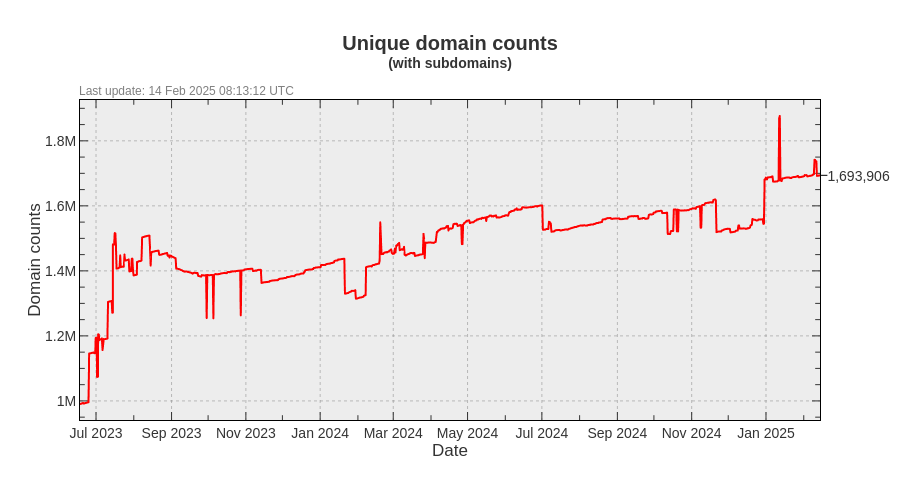
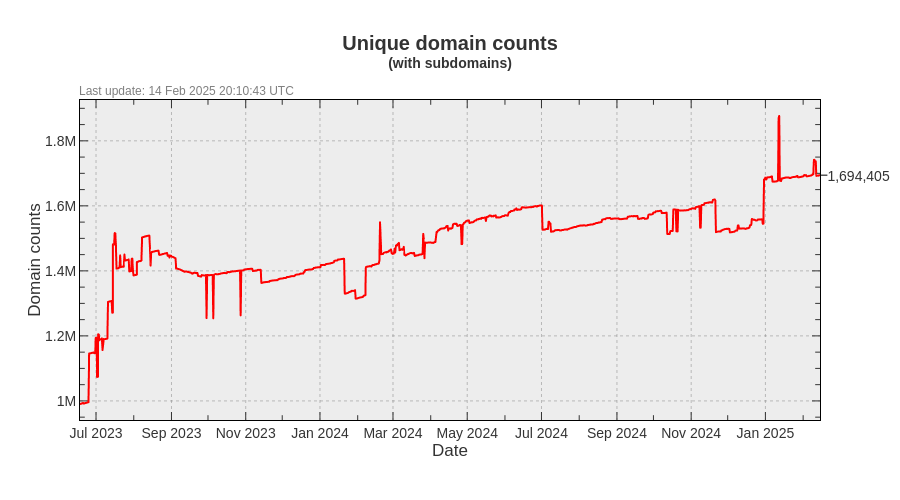
Update pages

diff --git a/README.md b/README.md
@@ -3,22 +3,22 @@ A blacklist file for blocking ads, trackers and malware domains.
 
[1 lines of base64/hex data omitted]
 
-- Unique domains: 1,693,906
-- Without subdomains: 1,047,678
-- Last update: 14 Feb 2025 08:13:12 UTC
-- Version: 2025.02.14.01
+- Unique domains: 1,694,405
+- Without subdomains: 1,048,231
+- Last update: 14 Feb 2025 20:10:43 UTC
+- Version: 2025.02.14.02
 
 
 ### Downloads:
 
 | Format             | Domain count      | Download Link |
 |:------------------ | -----------------:|:-------------:|
-| *Adblock Plus*     | 1,047,678 | [Download](https://dl.cenk.app/bad-hosts/bad-hosts-abp) |
-| *Wildcard domains* | 1,047,678 | [Download](https://dl.cenk.app/bad-hosts/bad-hosts-wildcard) |
-| *dnsmasq*          | 1,047,678 | [Download](https://dl.cenk.app/bad-hosts/bad-hosts-dnsmasq) |
-| *Unbound*          | 1,047,678 | [Download](https://dl.cenk.app/bad-hosts/bad-hosts-unbound) |
-| *hosts*            | 1,693,906 | [Download](https://dl.cenk.app/bad-hosts/hosts) |
-| *hosts (ipv6)*     | 1,693,906 | [Download](https://dl.cenk.app/bad-hosts/hosts-ipv6) |
-| *Plain domains*    | 1,693,906 | [Download](https://dl.cenk.app/bad-hosts/bad-hosts-domains) |
+| *Adblock Plus*     | 1,048,231 | [Download](https://dl.cenk.app/bad-hosts/bad-hosts-abp) |
+| *Wildcard domains* | 1,048,231 | [Download](https://dl.cenk.app/bad-hosts/bad-hosts-wildcard) |
+| *dnsmasq*          | 1,048,231 | [Download](https://dl.cenk.app/bad-hosts/bad-hosts-dnsmasq) |
+| *Unbound*          | 1,048,231 | [Download](https://dl.cenk.app/bad-hosts/bad-hosts-unbound) |
+| *hosts*            | 1,694,405 | [Download](https://dl.cenk.app/bad-hosts/hosts) |
+| *hosts (ipv6)*     | 1,694,405 | [Download](https://dl.cenk.app/bad-hosts/hosts-ipv6) |
+| *Plain domains*    | 1,694,405 | [Download](https://dl.cenk.app/bad-hosts/bad-hosts-domains) |
 
 
